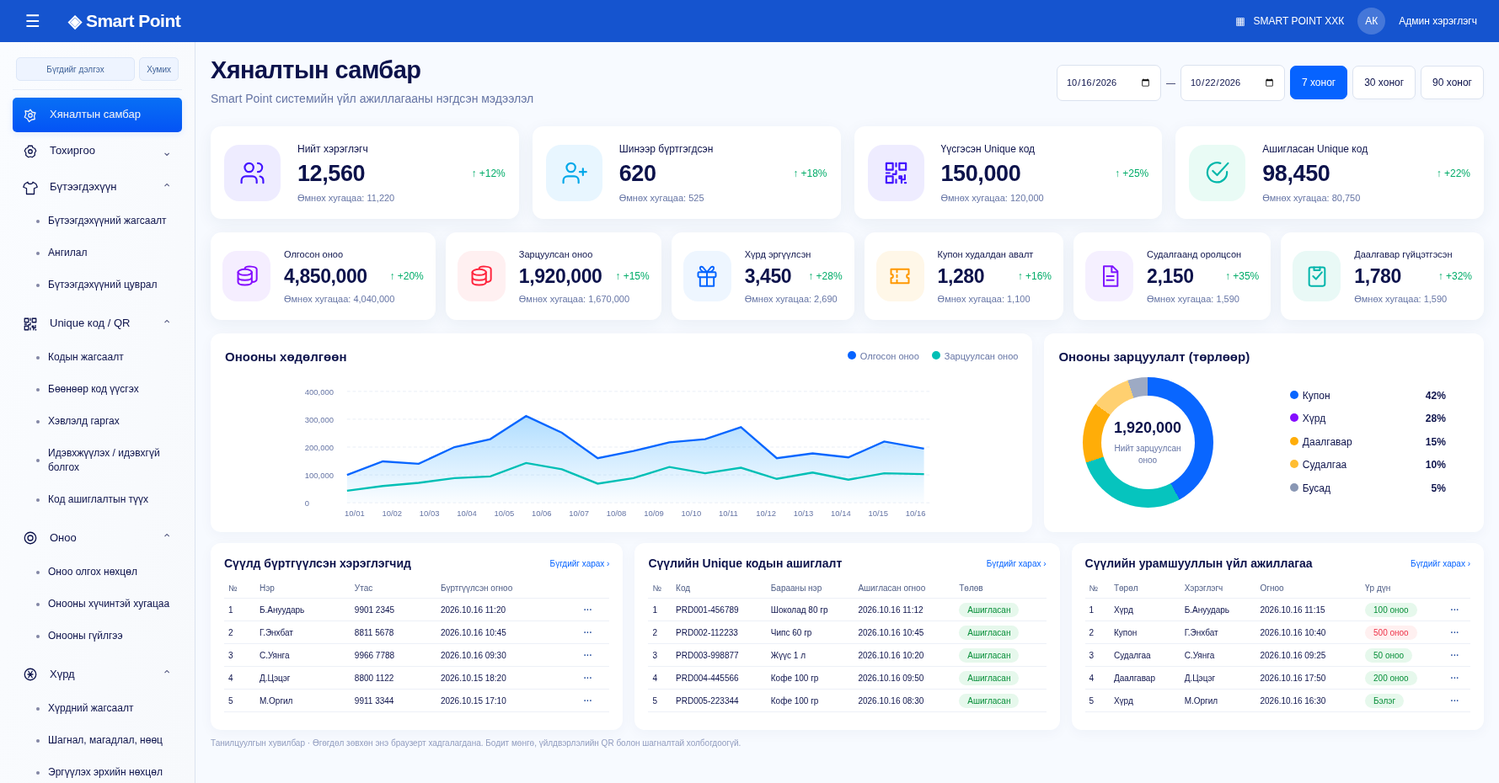
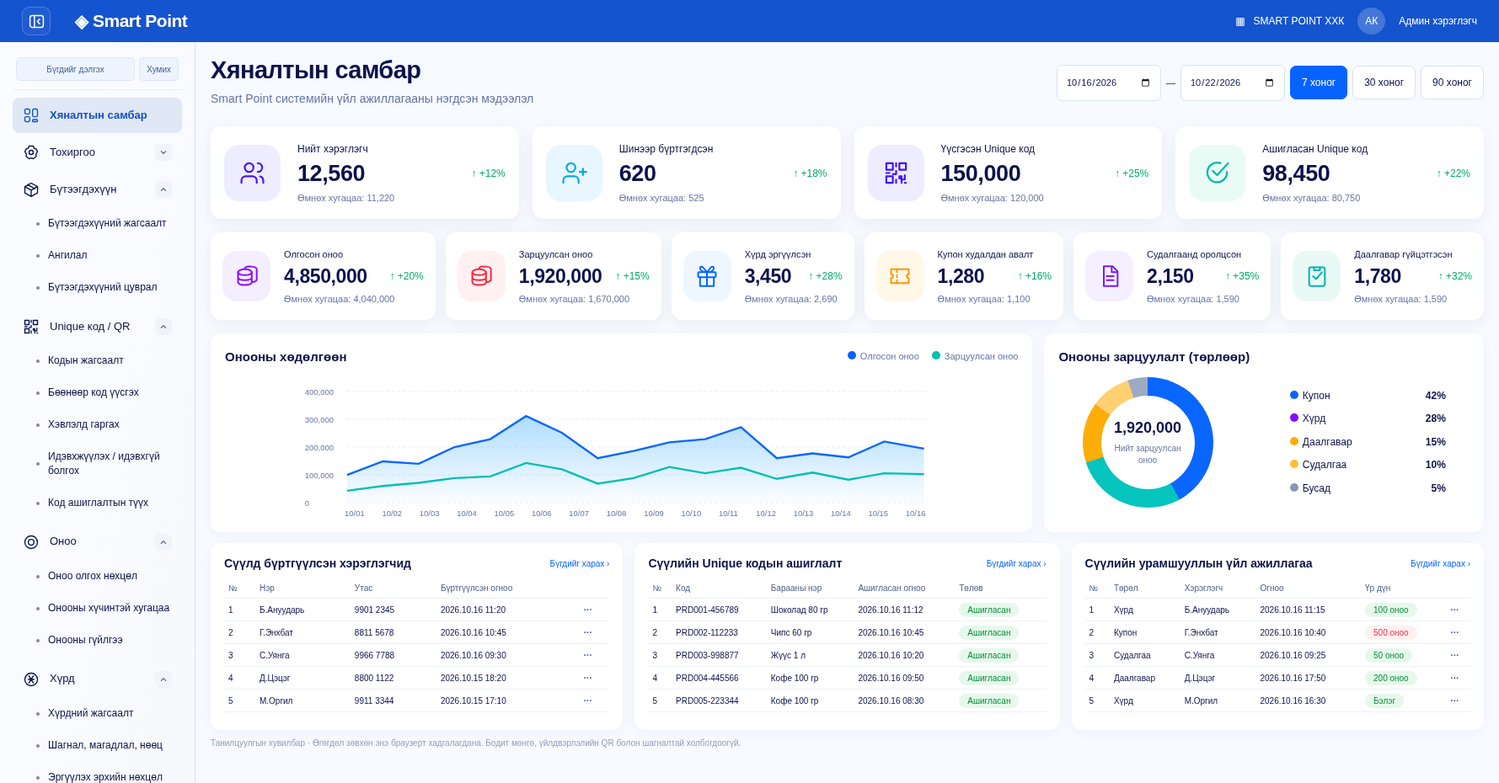
Polish admin navigation and add illustrated searchable product catalog

diff --git a/assets/app.js b/assets/app.js
@@ -1,7 +1,7 @@
 'use strict';
 const $=id=>document.getElementById(id), fmt=n=>Number(n).toLocaleString('en-US'), esc=s=>String(s).replace(/[&<>"']/g,c=>({'&':'&amp;','<':'&lt;','>':'&gt;','"':'&quot;',"'":'&#39;'}[c]));
 const today=()=>new Date().toISOString().slice(0,10);const seed={balance:24850,rate:100,spinCost:500,codes:[],transactions:[{title:'Шоколад 80 гр',amount:100,date:today(),kind:'Код'},{title:'Купон худалдан авалт',amount:-500,date:today(),kind:'Купон'}],claims:[],completed:[],users:[['Б.Ануударь','9901 2345'],['Г.Энхбат','8811 5678'],['С.Уянга','9966 7788'],['Д.Цэцэг','8800 1122'],['М.Оргил','9911 3344']]};let db,storageAvailable=true;try{db=JSON.parse(localStorage.getItem('smartpoint-v1'))||structuredClone(seed)}catch{db=structuredClone(seed);storageAvailable=false}let page='dashboard';
-function save(){try{localStorage.setItem('smartpoint-v1',JSON.stringify(db))}catch{storageAvailable=false;toast('Браузер хадгалах боломжгүй. Өгөгдөл зөвхөн энэ хуудсанд үлдэнэ.')}}function toast(t){$('toast').textContent=t;$('toast').style.display='block';clearTimeout(toast.timer);toast.timer=setTimeout(()=>$('toast').style.display='none',4000)}function modal(title,body){$('dialogTitle').textContent=title;$('dialogBody').innerHTML=body;$('dialog').showModal()}$('close').onclick=()=>$('dialog').close();$('menu').onclick=()=>$('sidebar').classList.toggle('open');
+function save(){try{localStorage.setItem('smartpoint-v1',JSON.stringify(db))}catch{storageAvailable=false;toast('Браузер хадгалах боломжгүй. Өгөгдөл зөвхөн энэ хуудсанд үлдэнэ.')}}function toast(t){$('toast').textContent=t;$('toast').style.display='block';clearTimeout(toast.timer);toast.timer=setTimeout(()=>$('toast').style.display='none',4000)}function modal(title,body){$('dialogTitle').textContent=title;$('dialogBody').innerHTML=body;$('dialog').showModal()}$('close').onclick=()=>$('dialog').close();$('menu').onclick=()=>{if(matchMedia('(max-width:600px)').matches){const open=$('sidebar').classList.toggle('open');$('menu').setAttribute('aria-expanded',String(open));}else{const collapsed=document.body.classList.toggle('sidebar-collapsed');$('menu').setAttribute('aria-expanded',String(!collapsed));$('menu').title=collapsed?'Цэс дэлгэх':'Цэс хураах';}};
 
 const adminMenu=[
 ['dashboard','Хяналтын самбар',[]],
@@ -18,28 +18,32 @@ const adminMenu=[
 ['reports','Тайлан',[['report-codes','Код ашиглалтын тайлан'],['report-points','Онооны тайлан'],['report-rewards','Урамшууллын тайлан'],['report-activity','Хэрэглэгчийн идэвхийн тайлан']]]
 ];
 let selectedAdmin='dashboard';const expandedMenus=new Set();
-function menuItem(item,depth=0){const [id,label,children=[]]=item;const selected=id===selectedAdmin;const contains=children.some(c=>c[0]===selectedAdmin||(c[2]||[]).some(d=>d[0]===selectedAdmin));return `<div class="menu-node"><button type="button" data-admin="${id}" ${children.length?`aria-expanded="${expandedMenus.has(id)}" aria-controls="submenu-${id}"`:selected?'aria-current="page"':''} class="menu-button depth-${depth} ${selected?'active':''} ${contains?'has-selection':''}">${depth===0?`<span class="menu-icon">${lineIcon(id==='fulfillment'?'gift':id)}</span>`:'<span class="menu-bullet"></span>'}<span class="menu-label">${label}</span>${children.length?`<span class="menu-chevron">${expandedMenus.has(id)?'⌃':'⌄'}</span>`:''}</button>${children.length?`<div id="submenu-${id}" class="submenu" ${expandedMenus.has(id)?'':'hidden'}>${children.map(c=>menuItem(c,depth+1)).join('')}</div>`:''}</div>`}
+function menuItem(item,depth=0){const [id,label,children=[]]=item;const selected=id===selectedAdmin;const contains=children.some(c=>c[0]===selectedAdmin||(c[2]||[]).some(d=>d[0]===selectedAdmin));return `<div class="menu-node"><button type="button" data-admin="${id}" title="${label}" ${children.length?`aria-expanded="${expandedMenus.has(id)}" aria-controls="submenu-${id}"`:selected?'aria-current="page"':''} class="menu-button depth-${depth} ${selected?'active':''} ${contains?'has-selection':''}">${depth===0?`<span class="menu-icon">${lineIcon(id==='fulfillment'?'gift':id)}</span>`:'<span class="menu-bullet"></span>'}<span class="menu-label">${label}</span>${children.length?`<span class="menu-chevron">${lineIcon('chevron')}</span>`:''}</button>${children.length?`<div id="submenu-${id}" class="submenu" ${expandedMenus.has(id)?'':'hidden'}>${children.map(c=>menuItem(c,depth+1)).join('')}</div>`:''}</div>`}
 function findAdmin(id,items=adminMenu){for(const item of items){if(item[0]===id)return item;const child=findAdmin(id,item[2]||[]);if(child)return child}return null}
 const routes={'product-list':'products','code-list':'codes','code-generate':'codes','code-print':'codes','code-activate':'codes','point-rules':'settings','point-transactions':'points','user-list':'users','user-points':'points','report-points':'reports'};
 function go(p){page=p;{const group=adminMenu.find(x=>x[0]===p);if(group&&group[2].length){expandedMenus.add(p);selectedAdmin=group[2][0][0]}else selectedAdmin=p;}render();$('sidebar').classList.remove('open');window.scrollTo(0,0)}
-function render(){$('nav').innerHTML=`<div class="menu-controls"><button type="button" id="expandMenus">Бүгдийг дэлгэх</button><button type="button" id="collapseMenus">Хумих</button></div>`+adminMenu.map(i=>menuItem(i)).join('');$('expandMenus').onclick=()=>{function expand(items){items.forEach(i=>{if(i[2]?.length){expandedMenus.add(i[0]);expand(i[2]);}})}expand(adminMenu);render()};$('collapseMenus').onclick=()=>{expandedMenus.clear();render()};document.querySelectorAll('[data-admin]').forEach(b=>b.onclick=()=>{const id=b.dataset.admin,item=findAdmin(id);if(item[2]?.length){expandedMenus.has(id)?expandedMenus.delete(id):expandedMenus.add(id);render();return}selectedAdmin=id;page=id;render();$('sidebar').classList.remove('open');window.scrollTo(0,0)});const active=findAdmin(selectedAdmin);$('title').textContent=active[1];$('subtitle').textContent=selectedAdmin==='dashboard'?'Smart Point системийн үйл ажиллагааны нэгдсэн мэдээлэл':'Үйлдвэрлэгч, нийлүүлэгчийн удирдлагын хэсэг';$('filters').style.display=page==='dashboard'?'flex':'none';const views={dashboard,users,settings,products,codes,points,reports};const target=routes[selectedAdmin]||(selectedAdmin==='dashboard'?'dashboard':null);$('view').innerHTML=target?views[target]():panel(active[1],'<div class="empty"><p>Энэ хэсгийн цэс, дэлгэцийн бүтэц бэлэн боллоо.</p><p>Дэлгэрэнгүй удирдлагын боломжийг дараагийн хөгжүүлэлтээр нэмнэ.</p></div>');bind();}
+function render(){$('nav').innerHTML=`<div class="menu-controls"><button type="button" id="expandMenus">Бүгдийг дэлгэх</button><button type="button" id="collapseMenus">Хумих</button></div>`+adminMenu.map(i=>menuItem(i)).join('');$('expandMenus').onclick=()=>{function expand(items){items.forEach(i=>{if(i[2]?.length){expandedMenus.add(i[0]);expand(i[2]);}})}expand(adminMenu);render()};$('collapseMenus').onclick=()=>{expandedMenus.clear();render()};document.querySelectorAll('[data-admin]').forEach(b=>b.onclick=()=>{const id=b.dataset.admin,item=findAdmin(id);if(item[2]?.length){document.body.classList.remove('sidebar-collapsed');$('menu').setAttribute('aria-expanded','true');expandedMenus.has(id)?expandedMenus.delete(id):expandedMenus.add(id);render();return}selectedAdmin=id;page=id;render();$('sidebar').classList.remove('open');window.scrollTo(0,0)});const active=findAdmin(selectedAdmin);$('title').textContent=active[1];$('subtitle').textContent=selectedAdmin==='dashboard'?'Smart Point системийн үйл ажиллагааны нэгдсэн мэдээлэл':'Үйлдвэрлэгч, нийлүүлэгчийн удирдлагын хэсэг';$('filters').style.display=page==='dashboard'?'flex':'none';const views={dashboard,users,settings,products,codes,points,reports};const target=routes[selectedAdmin]||(selectedAdmin==='dashboard'?'dashboard':null);$('view').innerHTML=target?views[target]():panel(active[1],'<div class="empty"><p>Энэ хэсгийн цэс, дэлгэцийн бүтэц бэлэн боллоо.</p><p>Дэлгэрэнгүй удирдлагын боломжийг дараагийн хөгжүүлэлтээр нэмнэ.</p></div>');bind();}
 
 function table(head,rows){return `<div class="table-wrap"><table><thead><tr>${head.map(x=>`<th>${x}</th>`).join('')}</tr></thead><tbody>${rows.join('')||`<tr><td colspan="${head.length}" class="empty">Одоогоор мэдээлэл алга</td></tr>`}</tbody></table></div>`}const tr=cells=>`<tr>${cells.map(x=>`<td>${x}</td>`).join('')}</tr>`;function panel(title,content,action=''){return `<section class="panel"><div class="panel-head"><h2>${title}</h2>${action}</div>${content}</section>`}function stat(icon,label,value,gain,previous){return `<div class="stat"><div class="stat-icon">${lineIcon(({'♙':'users','♙+':'addUser','▦':'codes','✓':'check','◎':'coins','♔':'gift','♧':'coupons','▤':'surveys','☑':'tasks'})[icon]||'points')}</div><div><div class="stat-label">${label}</div><div class="stat-value">${value}<span class="gain">↑ +${gain}%</span></div><small>Өмнөх хугацаа: ${previous}</small></div></div>`}
 function chart(){return `<svg class="chart" viewBox="0 0 800 180" role="img" aria-label="Жишээ онооны хөдөлгөөний график"><defs><linearGradient id="area" x1="0" y1="0" x2="0" y2="1"><stop stop-color="#38aaff" stop-opacity=".4"/><stop offset="1" stop-color="#38aaff" stop-opacity=".02"/></linearGradient></defs>${[20,55,90,125,160].map((y,i)=>`<line x1="55" y1="${y}" x2="790" y2="${y}" stroke="#e8edf5" stroke-dasharray="4 3"/><text x="2" y="${y+4}">${fmt(400000-i*100000)}</text>`).join('')}<path d="M55 125 L100 108 L145 111 L190 90 L235 80 L280 51 L325 72 L370 104 L415 95 L460 84 L505 80 L550 65 L595 104 L640 98 L685 103 L730 83 L780 92 L780 160 L55 160Z" fill="url(#area)"/><polyline points="55,125 100,108 145,111 190,90 235,80 280,51 325,72 370,104 415,95 460,84 505,80 550,65 595,104 640,98 685,103 730,83 780,92" fill="none" stroke="#0866ff" stroke-width="2.5"/><path d="M55 145 L100 139 L145 135 L190 129 L235 127 L280 110 L325 118 L370 136 L415 129 L460 115 L505 123 L550 116 L595 130 L640 122 L685 131 L730 123 L780 124" fill="none" stroke="#00bfb5" stroke-width="2.5"/>${Array.from({length:16},(_,i)=>`<text x="${52+i*47}" y="177">10/${String(i+1).padStart(2,'0')}</text>`).join('')}</svg>`}
 function dashboard(){return `<div class="stats">${stat('♙','Нийт хэрэглэгч','12,560',12,'11,220')}${stat('♙+','Шинээр бүртгэгдсэн','620',18,'525')}${stat('▦','Үүсгэсэн Unique код',fmt(150000+db.codes.length),25,'120,000')}${stat('✓','Ашигласан Unique код',fmt(98450+db.codes.filter(c=>c.used).length),22,'80,750')}</div><div class="stats secondary">${stat('◎','Олгосон оноо','4,850,000',20,'4,040,000')}${stat('◎','Зарцуулсан оноо','1,920,000',15,'1,670,000')}${stat('♔','Хүрд эргүүлсэн','3,450',28,'2,690')}${stat('♧','Купон худалдан авалт','1,280',16,'1,100')}${stat('▤','Судалгаанд оролцсон','2,150',35,'1,590')}${stat('☑','Даалгавар гүйцэтгэсэн','1,780',32,'1,590')}</div><div class="charts">${panel('Онооны хөдөлгөөн',chart(),'<div class="legend"><span><i class="dot"></i>Олгосон оноо</span><span><i class="dot" style="background:#00bfb5"></i>Зарцуулсан оноо</span></div>')}${panel('Онооны зарцуулалт (төрлөөр)',`<div class="donut-wrap"><div class="donut"><div>1,920,000<small>Нийт зарцуулсан<br>оноо</small></div></div><div class="donut-labels">${['Купон','Хүрд','Даалгавар','Судалгаа','Бусад'].map((x,i)=>`<div><i class="dot" style="background:${['#0966ff','#850dff','#ffad08','#ffbd32','#8997b4'][i]}"></i>${x}<b>${[42,28,15,10,5][i]}%</b></div>`).join('')}</div></div>`)}</div><div class="tables">${panel('Сүүлд бүртгүүлсэн хэрэглэгчид',dashboardUsers(),'<button data-go="users">Бүгдийг харах ›</button>')}${panel('Сүүлийн Unique кодын ашиглалт',dashboardCodes(),'<button data-go="codes">Бүгдийг харах ›</button>')}${panel('Сүүлийн урамшууллын үйл ажиллагаа',dashboardActivity(),'<button data-go="points">Бүгдийг харах ›</button>')}</div>`}
 function userTable(){return table(['№','Нэр','Утас','Төлөв'],db.users.map((u,i)=>tr([i+1,esc(u[0]),esc(u[1]),'<span class="badge">Идэвхтэй</span>'])))}function users(){return panel('Бүртгэлтэй хэрэглэгчид',`<div class="toolbar"><input id="search" placeholder="Нэр эсвэл утсаар хайх" aria-label="Хэрэглэгч хайх"></div><div id="userResults">${userTable()}</div>`)}
 function settings(){return panel('Үйлдвэрлэгч, нийлүүлэгчийн оноо олгох нөхцөл',`<form id="settingsForm"><div class="toolbar"><label>Бүтээгдэхүүний код бүрд олгох оноо<input id="rate" type="number" required min="1" max="100000" value="${db.rate}"></label><label>Хүрд эргүүлэх үнэ (оноо)<input id="spinCost" type="number" required min="1" max="100000" value="${db.spinCost}"></label><button class="primary">Хадгалах</button></div></form><p>Өөрчлөлтөөс хойш ашигласан код болон хүрдэд шинэ нөхцөл үйлчилнэ. Админ эрхийн серверийн баталгаажуулалт энэ хувилбарт ороогүй.</p>`)}
-const productList=[['PRD001','Шоколад 80 гр','🍫'],['PRD002','Чипс 60 гр','🥔'],['PRD003','Жүүс 1 л','🧃'],['PRD004','Кофе 100 гр','☕']];function products(){return `<div class="cards">${productList.map(p=>panel(p[1],`<div class="offer"><div class="emoji">${p[2]}</div><p>${p[0]}</p><strong>Код бүрд ${fmt(db.rate)} оноо</strong><br><button class="primary" data-go="codes">Цуврал код үүсгэх</button></div>`)).join('')}</div>`}
+const productList=[['PRD001','Шоколад 80 гр','🍫'],['PRD002','Чипс 60 гр','🥔'],['PRD003','Жүүс 1 л','🧃'],['PRD004','Кофе 100 гр','☕']];const productDetails=[{code:'PRD001',name:'Шоколад 80 гр',category:'Амттан',price:4500,unit:'Ширхэг',size:'80 гр',image:'chocolate'},{code:'PRD002',name:'Чипс 60 гр',category:'Зууш',price:3200,unit:'Уут',size:'60 гр',image:'chips'},{code:'PRD003',name:'Жүүс 1 л',category:'Уух зүйл',price:5800,unit:'Хайрцаг',size:'1 л',image:'juice'},{code:'PRD004',name:'Кофе 100 гр',category:'Уух зүйл',price:12500,unit:'Уут',size:'100 гр',image:'coffee'}];
+function productCard(p){return `<article class="product-card"><div class="product-image"><img src="assets/products/${p.image}.svg" alt="${p.name} бүтээгдэхүүний жишээ савлагаа"><span class="product-status"><i></i>Идэвхтэй</span><button class="product-more" data-detail="${p.code}" aria-label="${p.name} дэлгэрэнгүй">${lineIcon('more')}</button></div><div class="product-content"><div class="product-meta"><span>${p.category}</span><code>${p.code}</code></div><h2>${p.name}</h2><div class="product-price">${fmt(p.price)} ₮ <small>/ ${p.unit.toLowerCase()}</small></div><dl class="product-specs"><div><dt>Хэмжих нэгж</dt><dd>${p.unit}</dd></div><div><dt>Савлагаа</dt><dd>${p.size}</dd></div></dl><div class="product-points">${lineIcon('coins')}<span>Код бүрд олгох оноо</span><strong>+${fmt(db.rate)}</strong></div><div class="product-actions"><button class="primary" data-product-code="${p.code}">${lineIcon('codes')} Код үүсгэх</button><button data-detail="${p.code}" aria-label="${p.name} мэдээлэл харах">${lineIcon('eye')}</button></div></div></article>`}
+function products(){return `<div class="product-toolbar"><div class="product-search">${lineIcon('search')}<input id="productSearch" aria-label="Бүтээгдэхүүн хайх" placeholder="Бүтээгдэхүүний нэр, кодоор хайх…"></div><select id="categoryFilter" aria-label="Ангиллаар шүүх"><option value="">Бүх ангилал</option>${[...new Set(productDetails.map(p=>p.category))].map(c=>`<option>${c}</option>`).join('')}</select><span id="productCount">Нийт ${productDetails.length} бүтээгдэхүүн</span></div><div class="product-grid" id="productGrid">${productDetails.map(productCard).join('')}</div><p class="product-note">Үнэ болон савлагааны зураг нь жишээ мэдээлэл.</p>`}
+function bindProductActions(){document.querySelectorAll('[data-detail]').forEach(b=>b.onclick=()=>{const p=productDetails.find(p=>p.code===b.dataset.detail);modal('Бүтээгдэхүүний мэдээлэл',`<img class="product-detail-image" src="assets/products/${p.image}.svg" alt="${p.name}"><h2>${p.name}</h2><dl class="detail-specs"><div><dt>Бүтээгдэхүүний код</dt><dd>${p.code}</dd></div><div><dt>Ангилал</dt><dd>${p.category}</dd></div><div><dt>Үнэ</dt><dd>${fmt(p.price)} ₮</dd></div><div><dt>Хэмжих нэгж</dt><dd>${p.unit}</dd></div><div><dt>Савлагаа</dt><dd>${p.size}</dd></div><div><dt>Олгох оноо</dt><dd>${fmt(db.rate)}</dd></div></dl>`)});document.querySelectorAll('[data-product-code]').forEach(b=>b.onclick=()=>{const p=productDetails.find(p=>p.code===b.dataset.productCode);go('codes');$('product').value=p.name;$('quantity').focus()})}
+
 function codeTable(short=false){return table(['Код','Бүтээгдэхүүн','Төлөв',...(short?[]:['Үйлдэл'])],db.codes.slice(0,short?5:500).map(c=>tr([`<span class="code">${esc(c.code)}</span>`,esc(c.product),`<span class="badge ${!c.active?'pending':''}">${c.used?'Ашигласан':c.active?'Идэвхтэй':'Идэвхгүй'}</span>`,...(short?[]:[!c.active?`<button data-activate="${esc(c.code)}">Идэвхжүүлэх</button>`:'—'])])))}
 function codes(){return panel('Бүтээгдэхүүний цуврал код',`<div class="help">Туршилтын нэг удаагийн текст кодууд. CSV татах, хэвлэх боломжтой; хэвлэлийн QR дүрс болон серверийн нууцлал хараахан хийгдээгүй.</div><form id="generateForm" class="toolbar"><label>Бүтээгдэхүүн<select id="product">${productList.map(p=>`<option>${p[1]}</option>`).join('')}</select></label><label>Тоо ширхэг (1–500)<input id="quantity" type="number" min="1" max="500" value="10" required></label><button class="primary">＋ Код үүсгэх</button><button type="button" id="activateAll">Бүгдийг идэвхжүүлэх</button><button type="button" id="csv">CSV татах</button><button type="button" id="print">Хэвлэх</button></form><p>Нийт ${db.codes.length} код · Ашигласан ${db.codes.filter(c=>c.used).length}</p>${codeTable()}`)}
 function transactionTable(limit=500){return table(['Төрөл','Тайлбар','Огноо','Оноо'],db.transactions.slice(0,limit).map(t=>tr([esc(t.kind),esc(t.title),t.date,`<span class="${t.amount>=0?'badge':'error'}">${t.amount>=0?'+':''}${fmt(t.amount)}</span>`])))}function points(){return panel('Хэрэглэгчдийн онооны гүйлгээ',`<p>Эцсийн хэрэглэгчдэд олгосон болон зарцуулсан онооны бүртгэл. Доорх нь жишээ хэрэглэгчийн туршилтын гүйлгээ.</p>${transactionTable()}`)}
 function reports(){const earned=db.transactions.filter(t=>t.amount>0).reduce((a,t)=>a+t.amount,0),spent=-db.transactions.filter(t=>t.amount<0).reduce((a,t)=>a+t.amount,0);return panel('Туршилтын гүйлгээний тайлан',`<div class="toolbar"><button id="reportCsv">Тайлан CSV татах</button></div><p>Бүртгэгдсэн орлого: ${fmt(earned)} оноо · Зарлага: ${fmt(spent)} оноо · Эхний жишээ үлдэгдэл нь тайланд орлого болж бүртгэгдэхгүй.</p>${transactionTable()}`)}
 function download(name,rows){const content='\uFEFF'+rows.map(row=>row.map(x=>'"'+String(x).replace(/"/g,'""')+'"').join(',')).join('\r\n');const url=URL.createObjectURL(new Blob([content],{type:'text/csv;charset=utf-8'})),a=document.createElement('a');a.href=url;a.download=name;a.click();setTimeout(()=>URL.revokeObjectURL(url),1000)}
-function bind(){document.querySelectorAll('[data-go]').forEach(b=>b.onclick=()=>go(b.dataset.go));if($('search'))$('search').oninput=e=>{const term=e.target.value.toLowerCase();$('userResults').innerHTML=table(['№','Нэр','Утас','Төлөв'],db.users.filter(u=>u.join(' ').toLowerCase().includes(term)).map((u,i)=>tr([i+1,esc(u[0]),esc(u[1]),'<span class="badge">Идэвхтэй</span>'])))};if($('settingsForm'))$('settingsForm').onsubmit=e=>{e.preventDefault();db.rate=Number($('rate').value);db.spinCost=Number($('spinCost').value);save();toast('Нөхцөл хадгалагдлаа')};if($('generateForm'))$('generateForm').onsubmit=e=>{e.preventDefault();const n=Number($('quantity').value);if(!Number.isInteger(n)||n<1||n>500)return;for(let i=0;i<n;i++)db.codes.unshift({code:'SP-'+crypto.randomUUID().replaceAll('-','').toUpperCase(),product:$('product').value,active:false,used:false});save();render();toast(`${n} код үүслээ`)};document.querySelectorAll('[data-activate]').forEach(b=>b.onclick=()=>{db.codes.find(c=>c.code===b.dataset.activate).active=true;save();render()});if($('activateAll'))$('activateAll').onclick=()=>{db.codes.forEach(c=>c.active=true);save();render();toast('Кодууд идэвхжлээ')};if($('csv'))$('csv').onclick=()=>download('smart-point-codes.csv',[['Код','Бүтээгдэхүүн','Идэвхтэй','Ашигласан'],...db.codes.map(c=>[c.code,c.product,c.active,c.used])]);if($('print'))$('print').onclick=()=>window.print();if($('reportCsv'))$('reportCsv').onclick=()=>download('smart-point-report.csv',[['Огноо','Төрөл','Тайлбар','Оноо'],...db.transactions.map(t=>[t.date,t.kind,t.title,t.amount])])}
+function bind(){bindProductActions();if($('productSearch')){const filter=()=>{const term=$('productSearch').value.trim().toLowerCase(),category=$('categoryFilter').value;const found=productDetails.filter(p=>(p.name+' '+p.code).toLowerCase().includes(term)&&(!category||p.category===category));$('productGrid').innerHTML=found.length?found.map(productCard).join(''):'<div class="product-empty">'+lineIcon('search')+'<h2>Бүтээгдэхүүн олдсонгүй</h2><p>Хайх үг эсвэл ангиллаа өөрчлөөд үзээрэй.</p></div>';$('productCount').textContent=found.length+' бүтээгдэхүүн';bindProductActions()};$('productSearch').oninput=filter;$('categoryFilter').onchange=filter;}document.querySelectorAll('[data-go]').forEach(b=>b.onclick=()=>go(b.dataset.go));if($('search'))$('search').oninput=e=>{const term=e.target.value.toLowerCase();$('userResults').innerHTML=table(['№','Нэр','Утас','Төлөв'],db.users.filter(u=>u.join(' ').toLowerCase().includes(term)).map((u,i)=>tr([i+1,esc(u[0]),esc(u[1]),'<span class="badge">Идэвхтэй</span>'])))};if($('settingsForm'))$('settingsForm').onsubmit=e=>{e.preventDefault();db.rate=Number($('rate').value);db.spinCost=Number($('spinCost').value);save();toast('Нөхцөл хадгалагдлаа')};if($('generateForm'))$('generateForm').onsubmit=e=>{e.preventDefault();const n=Number($('quantity').value);if(!Number.isInteger(n)||n<1||n>500)return;for(let i=0;i<n;i++)db.codes.unshift({code:'SP-'+crypto.randomUUID().replaceAll('-','').toUpperCase(),product:$('product').value,active:false,used:false});save();render();toast(`${n} код үүслээ`)};document.querySelectorAll('[data-activate]').forEach(b=>b.onclick=()=>{db.codes.find(c=>c.code===b.dataset.activate).active=true;save();render()});if($('activateAll'))$('activateAll').onclick=()=>{db.codes.forEach(c=>c.active=true);save();render();toast('Кодууд идэвхжлээ')};if($('csv'))$('csv').onclick=()=>download('smart-point-codes.csv',[['Код','Бүтээгдэхүүн','Идэвхтэй','Ашигласан'],...db.codes.map(c=>[c.code,c.product,c.active,c.used])]);if($('print'))$('print').onclick=()=>window.print();if($('reportCsv'))$('reportCsv').onclick=()=>download('smart-point-report.csv',[['Огноо','Төрөл','Тайлбар','Оноо'],...db.transactions.map(t=>[t.date,t.kind,t.title,t.amount])])}
 
-function lineIcon(name){const paths={users:'<path d="M16 21v-2a4 4 0 0 0-4-4H6a4 4 0 0 0-4 4v2M17 3a4 4 0 0 1 0 8M22 21v-2a4 4 0 0 0-3-3.87"/><circle cx="9" cy="7" r="4"/>',addUser:'<path d="M16 21v-2a4 4 0 0 0-4-4H6a4 4 0 0 0-4 4v2M20 8v6M17 11h6"/><circle cx="9" cy="7" r="4"/>',dashboard:'<path d="m12 3 3 4 5 1-2 5 1 5-5 1-4 3-3-5-4-2 2-5-1-5 5 1Z"/><circle cx="12" cy="12" r="3"/>',settings:'<path d="m9 3-1 3-3 1-2 4 2 3v4l4 3 3-1 3 1 4-3v-4l2-3-2-4-3-1-1-3Z"/><circle cx="12" cy="12" r="3"/>',products:'<path d="m8 3-5 3-2 5 5 2v9h12v-9l5-2-2-5-5-3c0 4-8 4-8 0Z"/>',codes:'<path d="M3 3h6v6H3zM15 3h6v6h-6zM3 15h6v6H3zM15 15h2v2h-2zM20 14v4h-3v3M21 21h-1M12 3v3M12 10v3H9M3 12h3M12 18v3"/>',points:'<circle cx="12" cy="12" r="9"/><circle cx="12" cy="12" r="4"/>',wheel:'<circle cx="12" cy="12" r="9"/><path d="m9 7 6 10M15 7 9 17M8 12h8"/>',coupons:'<path d="M3 5h18v5a2 2 0 0 0 0 4v5H3v-5a2 2 0 0 0 0-4Z M9 5v3M9 11v2M9 16v3"/>',surveys:'<path d="M6 2h9l5 5v15H6zM14 2v6h6M9 12h7M9 16h7"/>',tasks:'<rect x="4" y="3" width="16" height="19" rx="2"/><path d="m8 12 3 3 6-7M9 3v3h6V3"/>',reports:'<path d="M4 3v18h17M8 16l4-5 4 2 5-8M15 5h6v6"/>',coins:'<ellipse cx="10" cy="8" rx="7" ry="3"/><path d="M3 8v10c0 4 14 4 14 0V8M3 13c0 4 14 4 14 0M10 4c1-3 12-2 12 1v10c0 2-2 3-5 3"/>',gift:'<rect x="3" y="8" width="18" height="5" rx="1"/><path d="M5 13v9h14v-9M12 8v14M12 8C3 8 4 0 8 3l4 5c9 0 8-8 4-5Z"/>',check:'<path d="M21 11a9 9 0 1 1-6-8M8 10l4 4L22 3"/>'};return `<svg viewBox="0 0 24 24" fill="none" stroke="currentColor" stroke-width="1.7" stroke-linecap="round" stroke-linejoin="round" aria-hidden="true">${paths[name]||paths.points}</svg>`}
+function lineIcon(name){const paths={chevron:'<path d="m8 10 4 4 4-4"/>',more:'<circle cx="5" cy="12" r="1"/><circle cx="12" cy="12" r="1"/><circle cx="19" cy="12" r="1"/>',search:'<circle cx="10.5" cy="10.5" r="6.5"/><path d="m16 16 5 5"/>',eye:'<path d="M2 12s4-7 10-7 10 7 10 7-4 7-10 7S2 12 2 12Z"/><circle cx="12" cy="12" r="3"/>',sidebar:'<rect x="3" y="4" width="18" height="16" rx="3"/><path d="M9 4v16m7-11-3 3 3 3"/>',users:'<path d="M16 21v-2a4 4 0 0 0-4-4H6a4 4 0 0 0-4 4v2M17 3a4 4 0 0 1 0 8M22 21v-2a4 4 0 0 0-3-3.87"/><circle cx="9" cy="7" r="4"/>',addUser:'<path d="M16 21v-2a4 4 0 0 0-4-4H6a4 4 0 0 0-4 4v2M20 8v6M17 11h6"/><circle cx="9" cy="7" r="4"/>',dashboard:'<rect x="3" y="3" width="7" height="7" rx="2"/><rect x="14" y="3" width="7" height="11" rx="2"/><rect x="3" y="14" width="7" height="7" rx="2"/><rect x="14" y="18" width="7" height="3" rx="1"/>',settings:'<path d="m9 3-1 3-3 1-2 4 2 3v4l4 3 3-1 3 1 4-3v-4l2-3-2-4-3-1-1-3Z"/><circle cx="12" cy="12" r="3"/>',products:'<path d="m12 3 9 5v9l-9 5-9-5V8Zm0 10 9-5M12 13 3 8m9 5v9M7 5l10 6"/>',codes:'<path d="M3 3h6v6H3zM15 3h6v6h-6zM3 15h6v6H3zM15 15h2v2h-2zM20 14v4h-3v3M21 21h-1M12 3v3M12 10v3H9M3 12h3M12 18v3"/>',points:'<circle cx="12" cy="12" r="9"/><circle cx="12" cy="12" r="4"/>',wheel:'<circle cx="12" cy="12" r="9"/><path d="m9 7 6 10M15 7 9 17M8 12h8"/>',coupons:'<path d="M3 5h18v5a2 2 0 0 0 0 4v5H3v-5a2 2 0 0 0 0-4Z M9 5v3M9 11v2M9 16v3"/>',surveys:'<path d="M6 2h9l5 5v15H6zM14 2v6h6M9 12h7M9 16h7"/>',tasks:'<rect x="4" y="3" width="16" height="19" rx="2"/><path d="m8 12 3 3 6-7M9 3v3h6V3"/>',reports:'<path d="M4 3v18h17M8 16l4-5 4 2 5-8M15 5h6v6"/>',coins:'<ellipse cx="10" cy="8" rx="7" ry="3"/><path d="M3 8v10c0 4 14 4 14 0V8M3 13c0 4 14 4 14 0M10 4c1-3 12-2 12 1v10c0 2-2 3-5 3"/>',gift:'<rect x="3" y="8" width="18" height="5" rx="1"/><path d="M5 13v9h14v-9M12 8v14M12 8C3 8 4 0 8 3l4 5c9 0 8-8 4-5Z"/>',check:'<path d="M21 11a9 9 0 1 1-6-8M8 10l4 4L22 3"/>'};return `<svg viewBox="0 0 24 24" fill="none" stroke="currentColor" stroke-width="1.7" stroke-linecap="round" stroke-linejoin="round" aria-hidden="true">${paths[name]||paths.points}</svg>`}
 function dashboardUsers(){return table(['№','Нэр','Утас','Бүртгүүлсэн огноо',''],db.users.slice(0,5).map((u,i)=>tr([i+1,esc(u[0]),esc(u[1]),'2026.10.'+(i<3?'16':'15')+' '+['11:20','10:45','09:30','18:20','17:10'][i],'<span class="ellipsis">···</span>'])))}
 function dashboardCodes(){return table(['№','Код','Барааны нэр','Ашигласан огноо','Төлөв'],productList.concat([productList[3]]).map((p,i)=>tr([i+1,'PRD00'+(i+1)+'-'+['456789','112233','998877','445566','223344'][i],p[1],'2026.10.16 '+['11:12','10:45','10:20','09:50','08:30'][i],'<span class="badge">Ашигласан</span>'])))}
 function dashboardActivity(){return table(['№','Төрөл','Хэрэглэгч','Огноо','Үр дүн',''],['Хүрд','Купон','Судалгаа','Даалгавар','Хүрд'].map((x,i)=>tr([i+1,x,esc(db.users[i][0]),'2026.10.16 '+['11:15','10:40','09:25','17:50','16:30'][i],`<span class="badge ${i===1?'spent-badge':''}">${['100 оноо','500 оноо','50 оноо','200 оноо','Бэлэг'][i]}</span>`,'<span class="ellipsis">···</span>'])))}
 
-$('to').value=today();function setRange(days){const d=new Date();d.setDate(d.getDate()-days+1);$('from').value=d.toISOString().slice(0,10)}setRange(7);document.querySelectorAll('[data-days]').forEach(b=>b.onclick=()=>{document.querySelectorAll('[data-days]').forEach(x=>x.classList.toggle('selected',x===b));setRange(Number(b.dataset.days));toast('Жишээ график тогтмол өгөгдөлтэй. Огнооны шүүлтүүр сервертэй холбогдоогүй.')});render();
+$('menu').innerHTML=lineIcon('sidebar');$('menu').title='Цэс хураах';$('menu').setAttribute('aria-expanded','true');$('to').value=today();function setRange(days){const d=new Date();d.setDate(d.getDate()-days+1);$('from').value=d.toISOString().slice(0,10)}setRange(7);document.querySelectorAll('[data-days]').forEach(b=>b.onclick=()=>{document.querySelectorAll('[data-days]').forEach(x=>x.classList.toggle('selected',x===b));setRange(Number(b.dataset.days));toast('Жишээ график тогтмол өгөгдөлтэй. Огнооны шүүлтүүр сервертэй холбогдоогүй.')});render();

diff --git a/assets/style.css b/assets/style.css
@@ -12,3 +12,7 @@
 #nav .menu-controls{display:flex;gap:5px;padding:0 4px 10px;border-bottom:1px solid #e7edf7;margin-bottom:9px}#nav .menu-controls button{width:auto;min-height:28px;height:auto;font-size:10px;padding:6px 8px;margin:0;background:#eef4ff;color:#416399;border:1px solid #dce7f8;justify-content:center}#nav .menu-controls button:first-child{flex:1}
 /* Header color from the supplied reference. */
 header{background:#1554cf}
+/* Friendly product catalog and consistent navigation icons */
+#menu{display:grid;place-items:center;width:34px;height:34px;border:1px solid #ffffff36;border-radius:9px;background:#ffffff0c}#menu:hover{background:#ffffff20}#menu svg{width:21px;height:21px}#nav .menu-icon svg{width:20px;height:20px;stroke-width:1.65}#nav .menu-button{border-radius:8px;transition:background .15s,color .15s}#nav .menu-button:hover{background:#edf4ff;color:#1554cf}#nav .menu-chevron{display:flex;align-items:center;justify-content:center;width:20px!important;height:20px;border-radius:5px;background:#eef2f8}#nav .menu-chevron svg{width:16px;height:16px;transition:transform .2s}#nav [aria-expanded=true]>.menu-chevron svg{transform:rotate(180deg)}#nav .menu-button.active{background:#e9f1ff;color:#1554cf;box-shadow:none;font-weight:600}#nav .has-selection .menu-icon{color:#1554cf}.product-toolbar{display:flex;align-items:center;gap:12px;margin:5px 0 23px}.product-search{display:flex;align-items:center;gap:10px;max-width:410px;flex:1;background:white;border:1px solid #dfe6f1;border-radius:10px;padding:0 13px;box-shadow:0 2px 5px #19356103}.product-search svg{width:19px;height:19px;color:#8896ad;flex-shrink:0}.product-search input{padding:13px 0;border:0;width:100%;outline:none;background:transparent;font-size:12px}.product-search:focus-within{outline:2px solid #8cb6ff;outline-offset:2px}.product-toolbar select{padding:12px 16px;border-radius:10px;font-size:12px}.product-toolbar>span{font-size:12px;color:#7c89a3;margin-left:auto}.product-grid{display:grid;grid-template-columns:repeat(4,minmax(0,1fr));gap:20px}.product-card{background:#fff;border:1px solid #e6ecf4;border-radius:17px;overflow:hidden;box-shadow:0 4px 14px #19356105;transition:transform .2s,box-shadow .2s}.product-card:hover{transform:translateY(-3px);box-shadow:0 12px 30px #163c7610}.product-image{position:relative;margin:9px 9px 0;border-radius:12px;overflow:hidden;background:#f6f2ec;aspect-ratio:1.4}.product-image>img{width:100%;height:100%;display:block;object-fit:cover}.product-status{position:absolute;top:12px;left:12px;display:flex;align-items:center;gap:5px;background:#ffffffec;border:1px solid #fff;border-radius:20px;font-size:10px;padding:6px 9px;color:#367656}.product-status i{width:5px;height:5px;border-radius:50%;background:#38a76e}.product-more{position:absolute;right:11px;top:10px;padding:5px;background:#ffffffda;border:0;display:grid;place-items:center;border-radius:8px;color:#637087}.product-more svg{width:20px;height:20px}.product-content{padding:19px}.product-meta{display:flex;justify-content:space-between;gap:5px;align-items:center;margin-bottom:12px;font-size:10px;color:#8590a5}.product-meta>span{background:#f1f4f8;border-radius:5px;padding:4px 7px;color:#667591}.product-meta code{font-size:10px;letter-spacing:.5px}.product-content h2{font-size:17px;letter-spacing:-.3px;margin:0 0 11px}.product-price{font-size:23px;font-weight:700;letter-spacing:-.5px;color:#172b4d}.product-price small{font-size:11px;font-weight:400;color:#8390a6;letter-spacing:0}.product-specs{display:grid;grid-template-columns:1fr 1fr;gap:10px;padding:15px 0;margin:12px 0 0;border-top:1px solid #f0f3f8}.product-specs dt{font-size:10px;color:#8a96aa;margin-bottom:6px}.product-specs dd{margin:0;font-size:12px;color:#44536f;font-weight:500}.product-points{display:flex;align-items:center;gap:7px;font-size:10px;background:#f2f7ff;color:#5b78a5;padding:10px;border-radius:8px;margin:2px 0 17px}.product-points svg{width:17px;height:17px;color:#4579df}.product-points strong{font-size:13px;margin-left:auto;color:#2462d7}.product-actions{display:flex;gap:9px}.product-actions button{display:flex;align-items:center;justify-content:center;gap:8px;border-radius:9px;padding:10px;font-size:12px}.product-actions button.primary{flex:1;background:#1554cf!important;border-color:#1554cf!important}.product-actions svg{width:17px;height:17px}.product-actions button:not(.primary){color:#7585a0;border-color:#e2e9f3}.product-note{font-size:11px;margin-top:20px;color:#8a96aa}.product-empty{grid-column:1/-1;text-align:center;padding:60px;background:#fff;border:1px dashed #d8e1ef;border-radius:15px;color:#71819c}.product-empty svg{width:30px;height:30px;margin-bottom:17px}.product-detail-image{width:100%;height:180px;object-fit:contain;background:#f7f8fb;border-radius:12px;margin-bottom:20px}.detail-specs>div{display:flex;justify-content:space-between;border-bottom:1px solid #eef2f7;padding:12px 0;font-size:12px}.detail-specs dt{color:#8390a5}.detail-specs dd{margin:0;font-weight:600}.sidebar-collapsed #sidebar{width:74px;padding:18px 10px}.sidebar-collapsed main{margin-left:74px}.sidebar-collapsed #nav .menu-label,.sidebar-collapsed #nav .menu-chevron,.sidebar-collapsed #nav .submenu,.sidebar-collapsed #nav .menu-controls{display:none}.sidebar-collapsed #nav .depth-0{justify-content:center;padding:12px 0}.sidebar-collapsed #nav .menu-icon{width:21px}.sidebar-collapsed #menu svg{transform:rotate(180deg)}
+@media(min-width:1600px){.product-grid{gap:24px}.product-content{padding:22px}}@media(max-width:1250px){.product-grid{grid-template-columns:repeat(3,minmax(0,1fr))}}@media(max-width:1000px){.product-grid{grid-template-columns:repeat(2,minmax(0,1fr))}.product-toolbar{flex-wrap:wrap}.product-toolbar>span{margin-left:0}}@media(max-width:600px){.product-grid{grid-template-columns:1fr;gap:18px}.product-toolbar{gap:10px}.product-search{flex-basis:100%;max-width:none}.product-toolbar select{flex:1}.product-toolbar>span{font-size:11px}.product-image{aspect-ratio:1.65}.product-content{padding:20px}.sidebar-collapsed #sidebar{width:232px;padding:18px 15px}.sidebar-collapsed main{margin-left:0}.sidebar-collapsed #nav .menu-label,.sidebar-collapsed #nav .menu-chevron,.sidebar-collapsed #nav .menu-controls{display:flex}.sidebar-collapsed #nav .submenu:not([hidden]){display:block}.sidebar-collapsed #nav .depth-0{justify-content:flex-start;padding:11px 12px}}
+@media(prefers-reduced-motion:reduce){.product-card,#nav .menu-button,#nav .menu-chevron svg{transition:none}.product-card:hover{transform:none}}

diff --git a/index.html b/index.html
@@ -1,1 +1,1 @@
-<!doctype html><html lang="mn"><head><meta charset="utf-8"><meta name="viewport" content="width=device-width,initial-scale=1"><title>Smart Point Admin • Удирдлагын систем</title><link rel="stylesheet" href="assets/style.css?v=20261022-blue-header"></head><body><header><button id="menu" aria-label="Цэс">☰</button><strong>◈ Smart Point</strong><span class="header-right">▦ &nbsp; SMART POINT ХХК <span class="avatar">АК</span> Админ хэрэглэгч</span></header><aside id="sidebar"><p class="muted">УДИРДЛАГА</p><nav id="nav"></nav><div class="sidebar-bottom">Smart Point v0.1<br><small>Туршилтын орчин • Local demo</small></div></aside><main><div class="title-row"><div><h1 id="title"></h1><p id="subtitle"></p></div><div id="filters"><input type="date" id="from" aria-label="Эхлэх огноо"><span>—</span><input type="date" id="to" aria-label="Дуусах огноо"><button data-days="7" class="selected">7 хоног</button><button data-days="30">30 хоног</button><button data-days="90">90 хоног</button></div></div><div id="view"></div><footer>Танилцуулгын хувилбар · Өгөгдөл зөвхөн энэ браузерт хадгалагдана. Бодит мөнгө, үйлдвэрлэлийн QR болон шагналтай холбогдоогүй.</footer></main><dialog id="dialog"><h2 id="dialogTitle"></h2><div id="dialogBody"></div><button id="close">Хаах</button></dialog><div id="toast" role="status"></div><script src="assets/app.js?v=20261022-admin"></script></body></html>
+<!doctype html><html lang="mn"><head><meta charset="utf-8"><meta name="viewport" content="width=device-width,initial-scale=1"><title>Smart Point Admin • Удирдлагын систем</title><link rel="stylesheet" href="assets/style.css?v=20261022-friendly"></head><body><header><button id="menu" aria-label="Цэс">☰</button><strong>◈ Smart Point</strong><span class="header-right">▦ &nbsp; SMART POINT ХХК <span class="avatar">АК</span> Админ хэрэглэгч</span></header><aside id="sidebar"><p class="muted">УДИРДЛАГА</p><nav id="nav"></nav><div class="sidebar-bottom">Smart Point v0.1<br><small>Туршилтын орчин • Local demo</small></div></aside><main><div class="title-row"><div><h1 id="title"></h1><p id="subtitle"></p></div><div id="filters"><input type="date" id="from" aria-label="Эхлэх огноо"><span>—</span><input type="date" id="to" aria-label="Дуусах огноо"><button data-days="7" class="selected">7 хоног</button><button data-days="30">30 хоног</button><button data-days="90">90 хоног</button></div></div><div id="view"></div><footer>Танилцуулгын хувилбар · Өгөгдөл зөвхөн энэ браузерт хадгалагдана. Бодит мөнгө, үйлдвэрлэлийн QR болон шагналтай холбогдоогүй.</footer></main><dialog id="dialog"><h2 id="dialogTitle"></h2><div id="dialogBody"></div><button id="close">Хаах</button></dialog><div id="toast" role="status"></div><script src="assets/app.js?v=20261022-friendly"></script></body></html>

diff --git a/README.md b/README.md
@@ -25,3 +25,7 @@ python -m http.server 3000 --bind 0.0.0.0
 ## Хязгаарлалт
 
 Шинэ дэд хэсгүүдийн зарим нь дэлгэцийн бүтэц төдий. Dashboard нь жишээ статистиктай. Өгөгдөл localStorage-ийн smartpoint-v1 түлхүүрт хадгалагдана; шинэчлэлтээр өмнөх туршилтын өгөгдлийг устгахгүй. Сервер, байгууллага тусгаарлалт, нэвтрэлт, эрхийн баталгаажуулалт, QR хэвлэлийн дүрс, хэрэглэгчийн веб/апп руу нөхцөл түгээх API болон бодит нэвтрүүлэлт хараахан хийгдээгүй.
+
+## Бүтээгдэхүүний шинэ жагсаалт
+
+Зурагтай карт бүр код, нэр, ангилал, үнэ, хэмжих нэгж, савлагаа, олгох оноо харуулна. Нэр/кодоор хайх, ангиллаар шүүх, дэлгэрэнгүй харах болон сонгосон бүтээгдэхүүнд код үүсгэх рүү шилжих боломжтой. Савлагааны SVG зургууд болон үнэ нь жишээ мэдээлэл. Desktop дээр толгойн цэсний товчоор sidebar-ийг нарийсгаж болно; mobile дээр цэсийг нээнэ/хаана.
